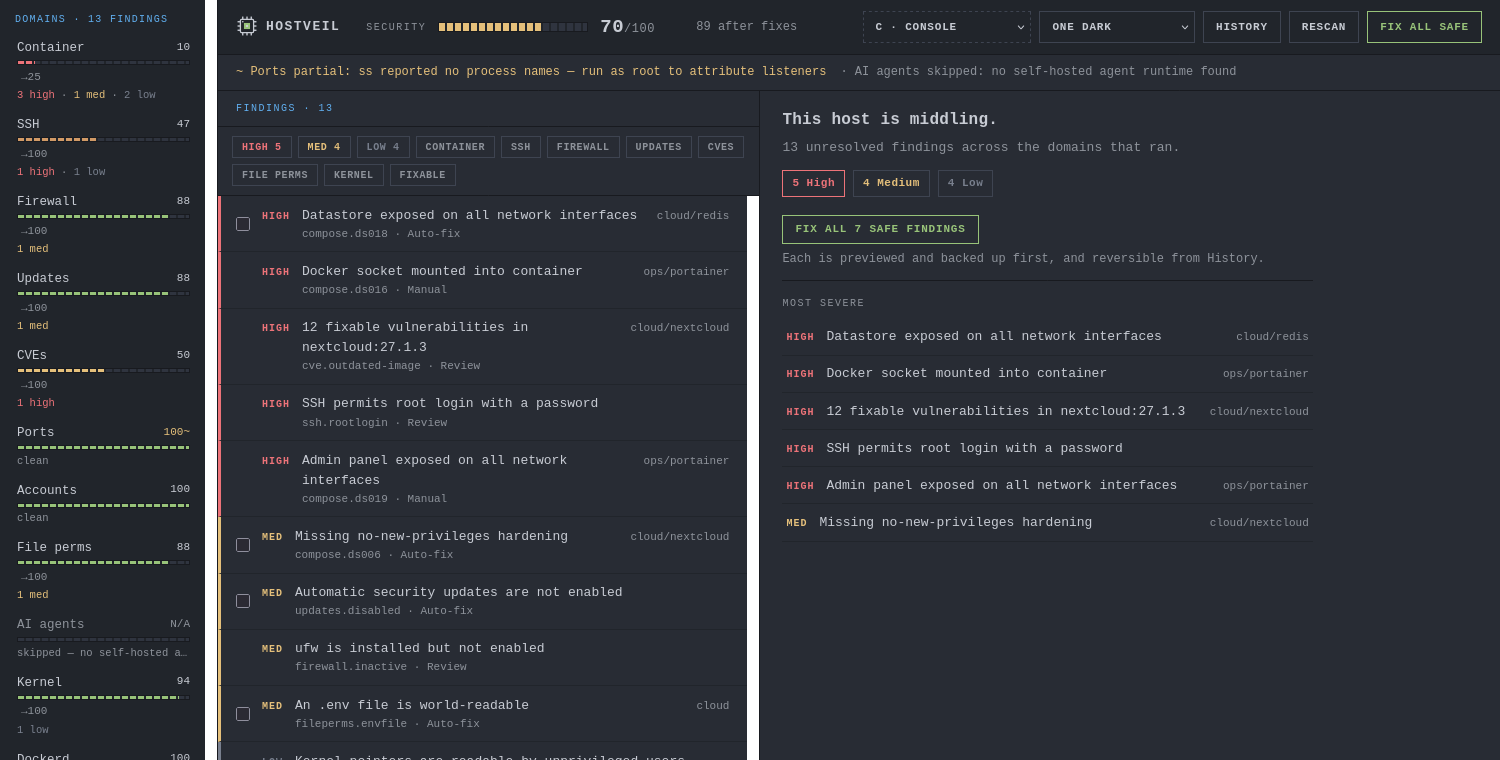
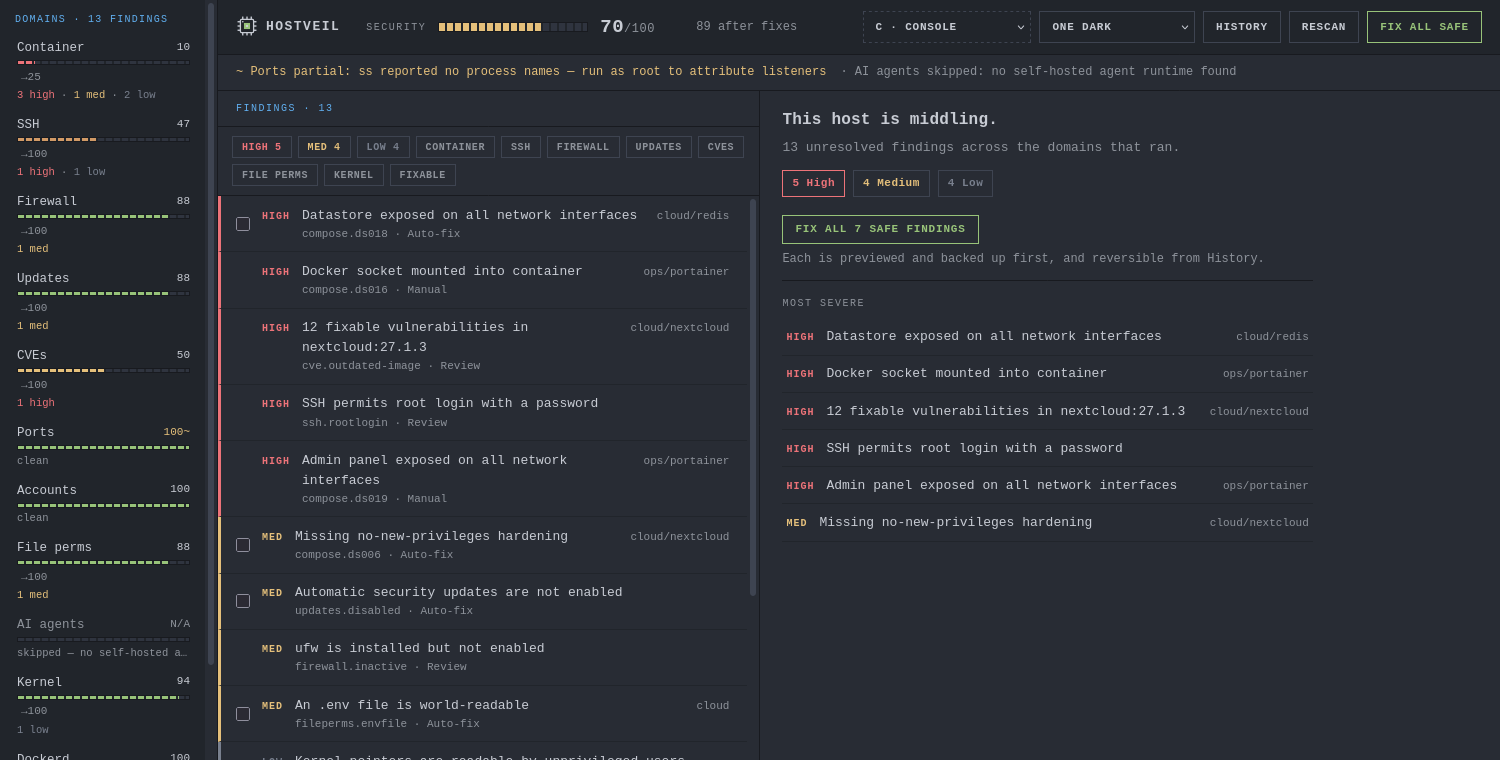
fix(web): tell Firefox what colour the scrollbar is instead of leaving it to infer (#715)
A pure-white bar, twelve pixels wide, running the height of the findings
column. Measured at `#ffffff` exactly, in four of the six arrangements —
the inner scroller in console/split/lanes and the page scroller in
inline.

### The obvious diagnosis was wrong

`color-scheme: dark` is **already** declared — not in `app.css` but in
every palette block `theme.CSS` emits, and its comment there names this
exact symptom class (*"an unticked batch-select box was a white square
sitting in the middle of a dark findings list"*). Adding it again would
have been a no-op.

So I built a control: one page carrying nothing but `color-scheme: dark`
and something to scroll, shot through the same headless Firefox.

| page | right-hand columns |
| --- | --- |
| `color-scheme: dark` | `#ffffff` |
| `+ ::-webkit-scrollbar-thumb` | `#ffffff` — Firefox ignores every
webkit rule |
| `+ scrollbar-color` | `#282c34` |

The inference is not reliable, and there was nothing in the tree telling
Firefox otherwise: `scrollbar-color` and `scrollbar-width` appear
nowhere in the repository. **Every screenshot this project has ever
taken of the dashboard has a white stripe down the middle of it**,
including the one on the website.

Re-shot with the declaration in place, and the probe that found the band
reports `near-white columns: none`.

### And the corner, which is Chromium's half of the same problem

Declaring *any* `::-webkit-scrollbar` rule switches that element to a
[…]

Changed region(s): [[0.1227, 0.0, 0.1533, 1.0], [0.4907, 0.2421, 0.5213, 1.0]]

diff --git a/internal/ui/web/assets/app.css b/internal/ui/web/assets/app.css
@@ -288,10 +288,38 @@ pre.diff .del { color: var(--crit); }
 pre.diff .ctx { color: var(--slate); }
 .fixbox .row { display: flex; gap: 8px; }
 
-/* scrollbars — quiet */
+/* ── scrollbars — quiet, and said rather than inferred ──
+   The ::-webkit- rules are Chromium's; Firefox ignores every one of them and
+   was left to derive the scrollbar from `color-scheme: dark`, which themes.css
+   has set all along. That inference is not reliable: a headless Firefox draws
+   a pure white bar with color-scheme set and these rules present — measured,
+   both ways, against a page carrying nothing else — and every screenshot this
+   project has ever taken of the dashboard has a white stripe down the middle
+   of the findings column because of it. scrollbar-color fixes it outright.
+   No new roles: --line-2 is the hairline that doubles as the selection ground,
+   and is what the thumb was already drawn in.
+   The corner is Chromium's other half of the same problem. Declaring any
+   ::-webkit-scrollbar rule switches that element to a fully custom scrollbar
+   and turns off the color-scheme theming for the parts left unstyled, so the
+   square where a vertical and a horizontal bar meet fell back to the UA's
+   light default. */
+:root { scrollbar-color: var(--line-2) var(--ink); scrollbar-width: thin; }
 ::-webkit-scrollbar { width: 10px; height: 10px; }
 ::-webkit-scrollbar-thumb { background: var(--line-2); }
+::-webkit-scrollbar-thumb:hover { background: var(--slate); }
 ::-webkit-scrollbar-track { background: transparent; }
+::-webkit-scrollbar-corner { background: var(--ink); }
+
+/* ── focus, for the controls that were not buttons ──
+   Buttons and the two selects have had a ring since they were added. The
+   checkboxes, the fix-alternative radios and the clickable finding rows had
+   none, so a keyboard user got the UA's own — which on Chromium is a white
+   outer ring around a black inner one, and half of that disappears on a dark
+   ground. Same ring as the buttons', so focus looks like one thing. */
+.pick:focus-visible,
+.alts input:focus-visible,
+.finding:focus-visible,
+.over-jump-row:focus-visible { outline: 2px solid var(--safe); outline-offset: 1px; }
 
 @media (max-width: 820px) {
   body { height: auto; overflow: visible; }

diff --git a/internal/ui/web/assets_test.go b/internal/ui/web/assets_test.go
@@ -82,3 +82,49 @@ func TestTheAxisMeterIsTheThingThatShrinks(t *testing.T) {
 		}
 	}
 }
+
+// Firefox is told what colour the scrollbar is, not left to work it out.
+//
+// The ::-webkit- rules beside it are Chromium's and Firefox ignores every one,
+// so it had only `color-scheme: dark` — which themes.css has set all along and
+// which is *usually* enough. Usually is the problem: measured against a page
+// carrying nothing but that declaration, a headless Firefox draws a pure white
+// bar, with and without the webkit rules present, and goes dark the moment
+// scrollbar-color is set. Every screenshot this project has taken of the
+// dashboard had a white stripe down the middle of the findings column.
+//
+// Palette roles, never a hex — --line-2 is the hairline the thumb was already
+// drawn in, and TestEveryCSSVariableIsDeclared holds both names to a palette
+// that actually declares them.
+func TestTheScrollbarIsColouredRatherThanInferred(t *testing.T) {
+	css := readAsset(t, "assets/app.css")
+	for _, want := range []string{
+		"scrollbar-color: var(--line-2) var(--ink);",
+		"::-webkit-scrollbar-corner { background: var(--ink); }",
+	} {
+		if !strings.Contains(css, want) {
+			t.Errorf("app.css no longer declares %q, so the scrollbar is back to whatever the browser infers", want)
+		}
+	}
+}
+
+// Every control a keyboard reaches has hostveil's own focus ring.
+//
+// Buttons and the two selects have had one since they were added; the
+// checkboxes, the fix-alternative radios and the clickable finding rows had
+// none, so a keyboard user got the UA's — on Chromium a white outer ring
+// around a black inner one, half of which vanishes on a dark ground.
+func TestEveryFocusableControlHasTheSameRing(t *testing.T) {
+	css := readAsset(t, "assets/app.css")
+	const ring = "outline: 2px solid var(--safe); outline-offset: 1px;"
+	for _, sel := range []string{".pick:focus-visible", ".alts input:focus-visible", ".finding:focus-visible"} {
+		i := strings.Index(css, sel)
+		if i < 0 {
+			t.Errorf("%s has no focus rule, so the browser draws its own", sel)
+			continue
+		}
+		if rest := css[i:]; !strings.Contains(rest[:min(len(rest), 400)], ring) {
+			t.Errorf("%s does not take the same ring the buttons do", sel)
+		}
+	}
+}
